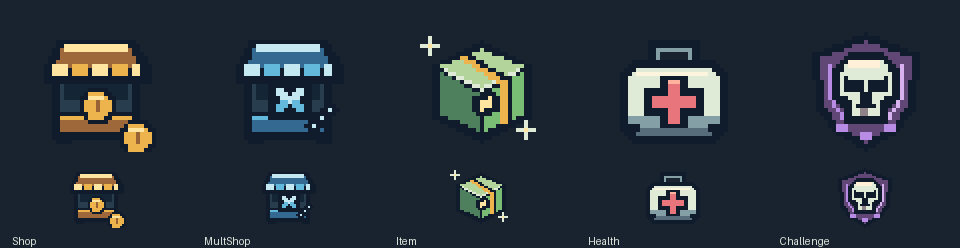
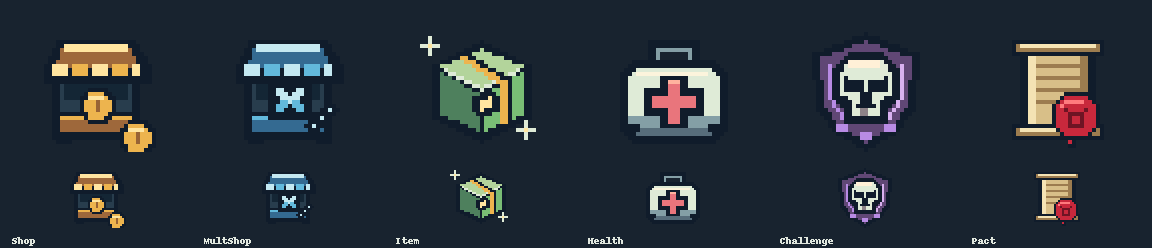
feat: pacts are offered as a reward hexagon with a pixel-art seal
Every second district (stages 2, 4, 6...), its first reward break shows a
PACT hexagon beside one other option, replacing the automatic post-boss pact.
Taking it opens the two-pact decision at the next wave break. The icon is a
Python-drawn 32px contract scroll with a blood wax seal.

diff --git a/Assets/Scripts/Waves/WaveOrchestrer.cs b/Assets/Scripts/Waves/WaveOrchestrer.cs
@@ -284,7 +284,11 @@ public class WaveOrchestrer : MonoBehaviour
                 remaining++;
         var player = ship.GetComponent<Shipcontroller>();
         int seed = unchecked(LevelRun.Seed + LevelRun.Stage * 971 + currentWaveNumber * 7919);
-        var options = EncounterChoice.Draw(seed, remaining >= 3 && challengeWavesRemaining == 0, player.health, player.maxHealth);
+        // Every second district offers one pact hexagon, at its first reward break.
+        bool pactAvailable = PactPool.Due && PactPool.HexStage != LevelRun.Stage && PactPool.HasEligible(player);
+        var options = EncounterChoice.Draw(seed, remaining >= 3 && challengeWavesRemaining == 0, player.health, player.maxHealth, pactAvailable);
+        if (Array.IndexOf(options, EncounterKind.Pact) >= 0)
+            PactPool.HexStage = LevelRun.Stage;
         EncounterOptions = options;
         rewardOffer = RewardHexes.Open(options, ship.transform, unchecked(seed * 31 + 17), index =>
         {
@@ -310,11 +314,11 @@ public class WaveOrchestrer : MonoBehaviour
         if (GameOverState.Active)
             return;
         DismissOffer();
-        if (kind == EncounterKind.Shop || kind == EncounterKind.MultShop || kind == EncounterKind.Item)
+        if (kind == EncounterKind.Shop || kind == EncounterKind.MultShop || kind == EncounterKind.Item || kind == EncounterKind.Pact)
         {
-            // Items and shops open at the next wave break, after the current phrase is cleared.
+            // Items, shops and pacts open at the next wave break, after the current phrase is cleared.
             var sequence = new List<string>(waves);
-            sequence.Insert(Mathf.Min(currentWaveNumber, sequence.Count), kind == EncounterKind.Shop ? "coinShop" : kind == EncounterKind.MultShop ? "multiplierShop" : "reward");
+            sequence.Insert(Mathf.Min(currentWaveNumber, sequence.Count), kind == EncounterKind.Shop ? "coinShop" : kind == EncounterKind.MultShop ? "multiplierShop" : kind == EncounterKind.Pact ? "pact" : "reward");
             waves = sequence.ToArray();
             return;
         }
@@ -398,26 +402,8 @@ public class WaveOrchestrer : MonoBehaviour
         decision.Open(this, ship.GetComponent<Shipcontroller>(), "bossReward", () =>
            {
                decision = null;
-               if (PactPool.Due && PactPool.HasEligible(ship.GetComponent<Shipcontroller>()))
-                   StartCoroutine(OfferPact());
-               else
-                   StartCoroutine(ChooseNextRoute());
-           }, position);
-    }
-
-    // Every second district closes with a pact: take one bargain or skip at the bottom.
-    IEnumerator OfferPact()
-    {
-        CombatDecision.Begin();
-        yield return new WaitForSeconds(.5f);
-        if (GameOverState.Active)
-            yield break;
-        decision = gameObject.AddComponent<DecisionShop>();
-        decision.Open(this, ship.GetComponent<Shipcontroller>(), "pact", () =>
-           {
-               decision = null;
                StartCoroutine(ChooseNextRoute());
-           });
+           }, position);
     }
 
     /// <summary>Debug: the next wave break opens a pact offer.</summary>

diff --git a/Tools/draw_encounter_icons.py b/Tools/draw_encounter_icons.py
@@ -119,7 +119,37 @@ def challenge():
     return im
 
 
-icons = {"Shop":shop(), "MultShop":shop(True), "Item":item(), "Health":health(), "Challenge":challenge()}
+def pact():
+    im,d = canvas()
+    paper, paper_shade, paper_light = "#d8bf88", "#9c7c4f", "#f4e3b4"
+    blood, blood_dark, blood_light = "#c8283c", "#6e1424", "#ff7a7e"
+    # A contract scroll: rolled ends top and bottom, a written page between.
+    d.rectangle((7,5,25,27), fill=INK)
+    d.rectangle((9,7,23,25), fill=paper)
+    d.rectangle((9,7,10,25), fill=paper_light)
+    d.rectangle((22,7,23,25), fill=paper_shade)
+    for y in (4,25):
+        d.rectangle((5,y,27,y+3), fill=INK)
+        d.rectangle((6,y+1,26,y+2), fill=paper_shade)
+        d.line((7,y+1,25,y+1), fill=paper_light)
+    for y in (10,13,16):
+        d.line((11,y,21,y), fill=paper_shade)
+    d.line((11,19,16,19), fill=paper_shade)
+    # The binding: a blood wax seal stamped with a horned sigil, with one drip.
+    d.polygon([(18,17),(23,17),(26,20),(26,25),(23,28),(18,28),(15,25),(15,20)], fill=INK)
+    d.polygon([(18,18),(23,18),(25,20),(25,25),(23,27),(18,27),(16,25),(16,20)], fill=blood)
+    d.line((18,19,22,19), fill=blood_light)
+    d.point((17,20), fill=blood_light)
+    d.rectangle((19,22,22,25), fill=blood_dark)
+    d.point((18,21), fill=blood_dark)
+    d.point((23,21), fill=blood_dark)
+    d.rectangle((20,23,21,24), fill=blood)
+    d.rectangle((19,28,20,30), fill=INK)
+    d.point((19,29), fill=blood)
+    return im
+
+
+icons = {"Shop":shop(), "MultShop":shop(True), "Item":item(), "Health":health(), "Challenge":challenge(), "Pact":pact()}
 template = (ROOT / "Assets/Resources/ProjectileSprites/standard.png.meta").read_text()
 folder_meta = DEST.with_suffix(".meta")
 if not folder_meta.exists():
@@ -138,11 +168,11 @@ for name,im in icons.items():
     meta.write_text("\n".join(line.rstrip() for line in meta.read_text().splitlines())+"\n")
 folder_meta.write_text("\n".join(line.rstrip() for line in folder_meta.read_text().splitlines())+"\n")
 
-sheet = Image.new("RGB", (5*192, 248), "#18232f")
+sheet = Image.new("RGB", (len(icons)*192, 248), "#18232f")
 d = ImageDraw.Draw(sheet)
 for i,(name,im) in enumerate(icons.items()):
     sheet.paste(im.resize((128,128),Image.Resampling.NEAREST), (i*192+32,24), im.resize((128,128),Image.Resampling.NEAREST))
     sheet.paste(im.resize((64,64),Image.Resampling.NEAREST), (i*192+64,164), im.resize((64,64),Image.Resampling.NEAREST))
     d.text((i*192+12,235),name,fill="#e1e8df")
 sheet.save(REVIEW / "IconSheet.png")
-print("Generated five 32px sprites and point-sampled 2x / 4x preview.")
+print("Generated six 32px sprites and point-sampled 2x / 4x preview.")

diff --git a/Assets/Scripts/Run/EncounterChoice.cs b/Assets/Scripts/Run/EncounterChoice.cs
@@ -4,11 +4,11 @@ using UnityEngine;
 
 public enum EncounterKind
 {
-    Shop, MultShop, Item, Health, Challenge
+    Shop, MultShop, Item, Health, Challenge, Pact
 }
 public static class EncounterChoice
 {
-    static readonly Sprite[] icons = new Sprite[5];
+    static readonly Sprite[] icons = new Sprite[Enum.GetValues(typeof(EncounterKind)).Length];
     public static Sprite Icon(EncounterKind kind)
     {
         int index = (int)kind;
@@ -20,7 +20,7 @@ public static class EncounterChoice
         return icons[index] = Sprite.Create(texture, new Rect(0, 0, texture.width, texture.height), new Vector2(.5f, .5f), 32, 0, SpriteMeshType.FullRect);
     }
 
-    public static EncounterKind[] Draw(int seed, bool challengeAvailable, float health, float maxHealth)
+    public static EncounterKind[] Draw(int seed, bool challengeAvailable, float health, float maxHealth, bool pactAvailable = false)
     {
         // Shops are no longer offered mid-run; the hangar shop between runs replaces them.
         var bag = new List<EncounterKind> { EncounterKind.Item };
@@ -42,6 +42,14 @@ public static class EncounterChoice
         foreach (var kind in bag)
             if (picked.Count < 2 && !picked.Contains(kind) && !Incompatible(picked[0], kind))
                 picked.Add(kind);
+        // A due pact always takes the second zone, so it is never crowded out.
+        if (pactAvailable)
+        {
+            if (picked.Count == 2)
+                picked[1] = EncounterKind.Pact;
+            else
+                picked.Add(EncounterKind.Pact);
+        }
         return picked.ToArray();
     }
 
@@ -63,6 +71,8 @@ public static class EncounterChoice
                 return new Color(.61f, .87f, .49f);
             case EncounterKind.Health:
                 return new Color(.94f, .42f, .44f);
+            case EncounterKind.Pact:
+                return new Color(.88f, .1f, .2f);
             default:
                 return new Color(.76f, .48f, .95f);
         }

diff --git a/Assets/Scripts/Items/Pact/PactPool.cs b/Assets/Scripts/Items/Pact/PactPool.cs
@@ -25,9 +25,16 @@ public static class PactPool
         get; private set;
     } = 1;
 
+    /// <summary>The stage whose reward break already showed a pact hexagon.</summary>
+    public static int HexStage
+    {
+        get; set;
+    } = -1;
+
     public static void ResetRun()
     {
         remaining = new List<string>(all);
+        HexStage = -1;
         GlassHull = false;
         RarityUpgrade = false;
         EnemyHealth = 1;
@@ -40,7 +47,7 @@ public static class PactPool
         EnemyHealth *= 1.25f;
     }
 
-    /// <summary>Pacts arrive after the boss of every second district (stages 2, 4, 6...).</summary>
+    /// <summary>Every second district (stages 2, 4, 6...) offers one pact hexagon.</summary>
     public static bool Due => LevelRun.Stage % 2 == 0;
 
     static bool Eligible(string pact, Shipcontroller ship)

diff --git a/Assets/Scripts/UI/RewardHexes.cs b/Assets/Scripts/UI/RewardHexes.cs
@@ -63,6 +63,7 @@ public sealed class RewardHexes : MonoBehaviour
         switch (kind)
         {
             case EncounterKind.Item:
+            case EncounterKind.Pact:
                 return 1;
             case EncounterKind.Challenge:
                 return .75f;
